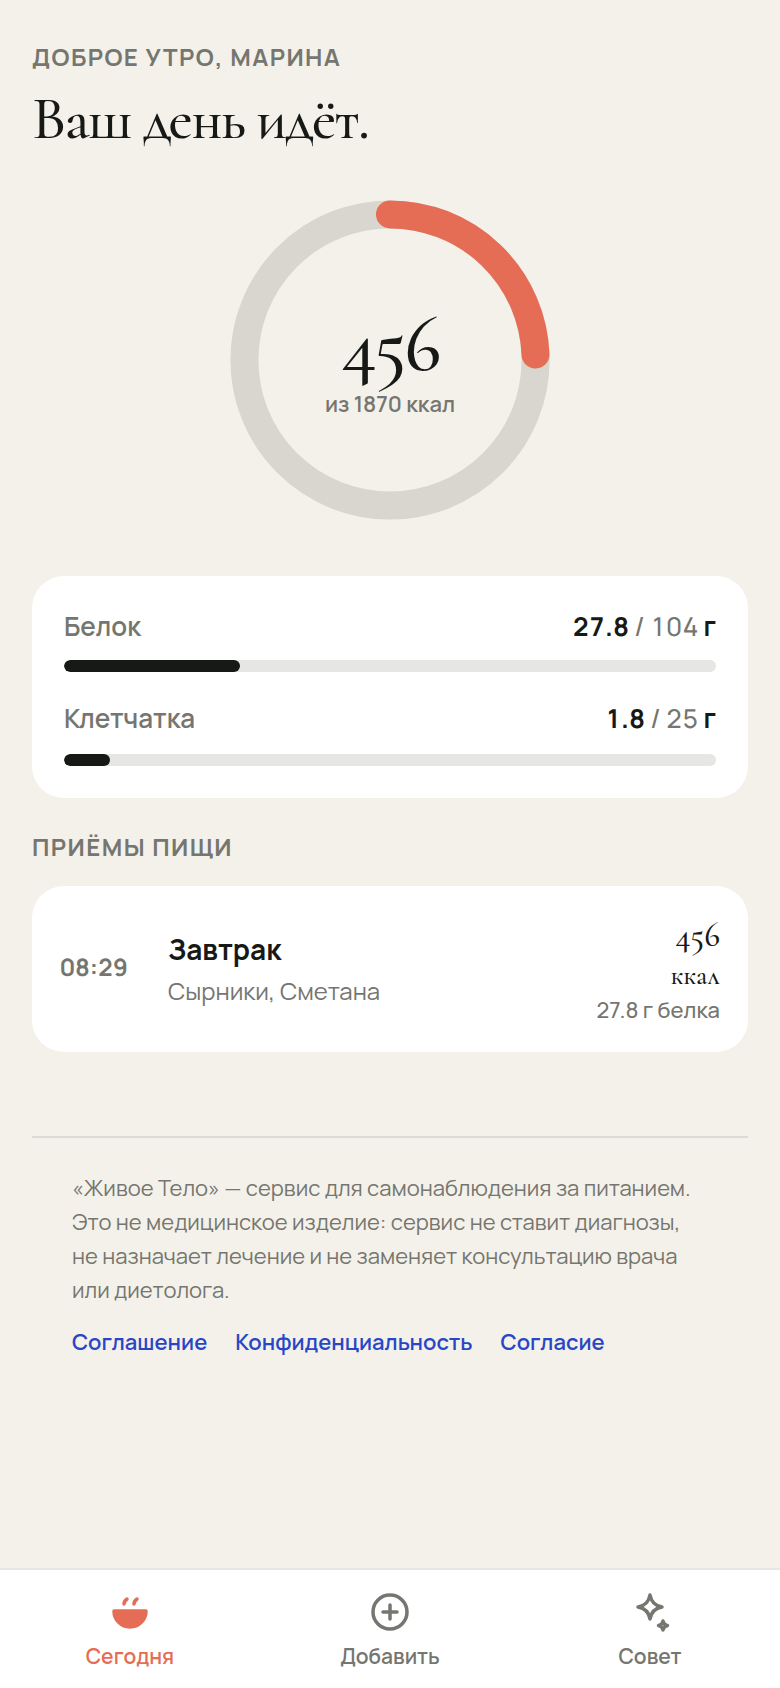
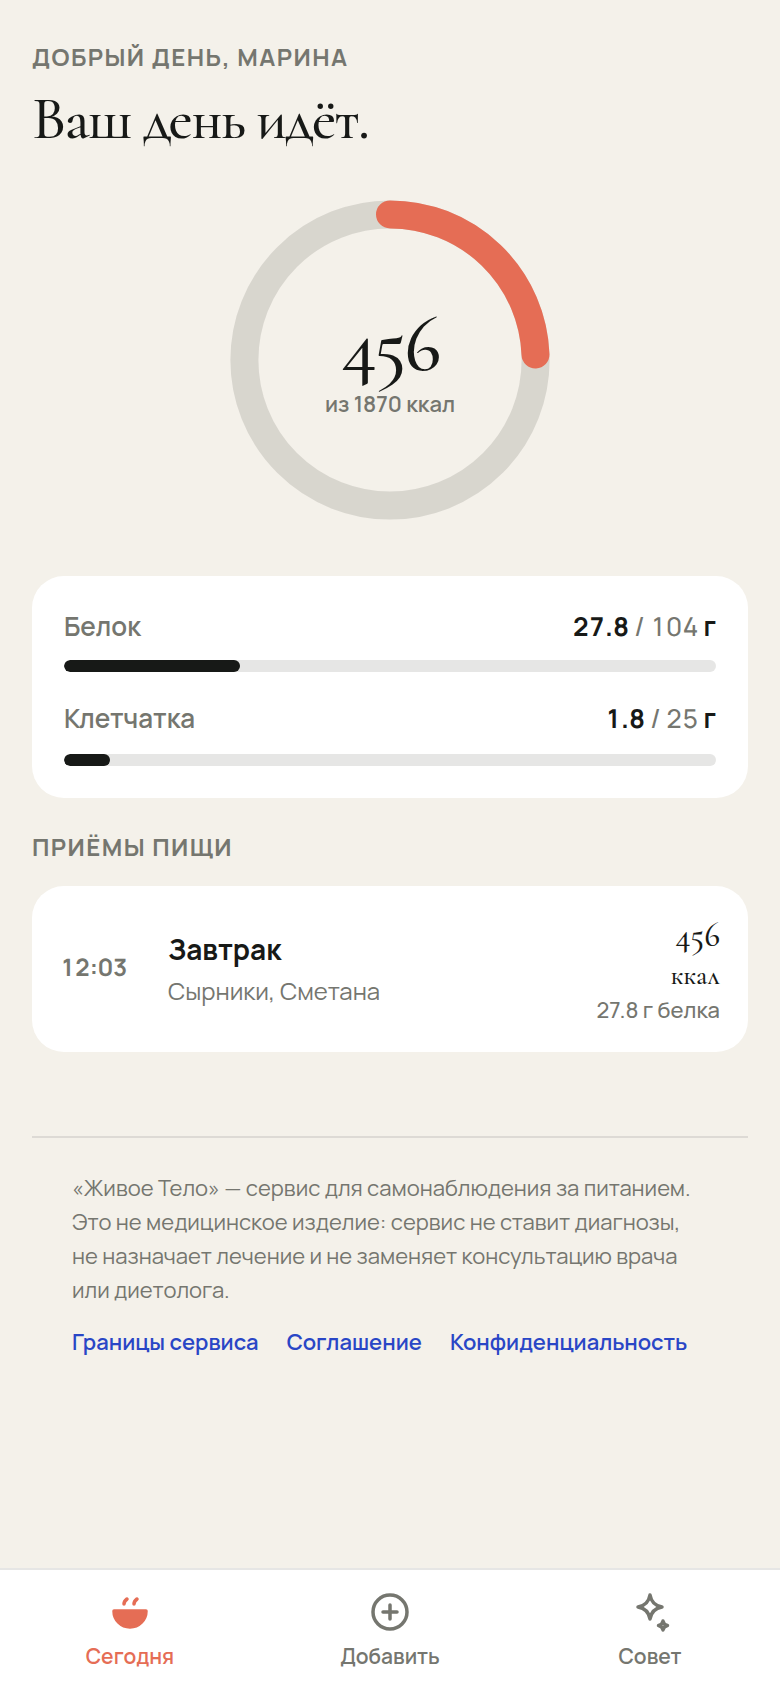
Show the plan updating as the onboarding questions are answered
Every onboarding that converts well shares one trait: the plan recalculates
in front of the person filling it in, so the numbers read as derived from
their answers rather than handed down. Ours only revealed the result after
submission.

A sticky panel beside the form now recomputes the energy range, protein and
fibre through the same computeTargets the app uses, and says plainly that it
is waiting for height and weight until it has enough to work with. Switching
the goal from maintenance to gentle loss moves the range immediately.

The form fields became controlled to make this possible, but the server
action's contract is untouched — same field names, same FormData, same
validation — and the original defaults (maintenance, light activity) are
preserved, so nothing changes for someone who simply fills the form and
presses the button.

93 unit tests, six e2e suites including the one that walks through
onboarding, clean lint, typecheck and build.

Claude-Session: https://claude.ai/code/session_01FfWCYDAfY1bLqGNy6tGekT

Changed region(s): [[0.0923, 0.7701, 0.8615, 0.8009], [0.1231, 0.0308, 0.4308, 0.0616], [0.0615, 0.5545, 0.1538, 0.5853]]

diff --git a/app/app/onboarding/page.tsx b/app/app/onboarding/page.tsx
@@ -1,7 +1,15 @@
 "use client";
 
-import { useActionState } from "react";
-import { ACTIVITY_LABELS, GOAL_LABELS } from "@/lib/targets";
+import { useActionState, useMemo, useState } from "react";
+import {
+  ACTIVITY_LABELS,
+  computeTargets,
+  GOAL_LABELS,
+  type Activity,
+  type Goal,
+  type SexForFormula,
+  type Targets,
+} from "@/lib/targets";
 import { saveProfile, type ProfileState } from "../profile-actions";
 
 const errors: Partial<Record<ProfileState["status"], string>> = {
@@ -12,6 +20,29 @@ const errors: Partial<Record<ProfileState["status"], string>> = {
 export default function OnboardingPage() {
   const [state, action, pending] = useActionState(saveProfile, { status: "idle" } as ProfileState);
   const currentYear = new Date().getFullYear();
+
+  // Управляемое состояние формы — нужно только для живого предпросмотра;
+  // server action по-прежнему читает те же поля из FormData по name.
+  const [goal, setGoal] = useState<Goal>("maintain");
+  const [sexForFormula, setSexForFormula] = useState<SexForFormula | "">("");
+  const [activity, setActivity] = useState<Activity>("light");
+  const [birthYear, setBirthYear] = useState("");
+  const [heightCm, setHeightCm] = useState("");
+  const [weightKg, setWeightKg] = useState("");
+
+  // Пересчитываем прямо во время рендера: computeTargets — чистая функция,
+  // отдельный useEffect тут не нужен.
+  const targets = useMemo<Targets | null>(() => {
+    if (!sexForFormula || !birthYear || !heightCm || !weightKg) return null;
+    const birthYearNum = Number(birthYear);
+    const heightNum = Number(heightCm);
+    const weightNum = Number(weightKg);
+    if (!Number.isFinite(birthYearNum) || !Number.isFinite(heightNum) || !Number.isFinite(weightNum)) return null;
+    return computeTargets(
+      { goal, sexForFormula, birthYear: birthYearNum, heightCm: heightNum, weightKg: weightNum, activity },
+      currentYear,
+    );
+  }, [goal, sexForFormula, birthYear, heightCm, weightKg, activity, currentYear]);
 
   return <main className="onboarding">
     <h1>Ваш стартовый план</h1>
@@ -24,13 +55,37 @@ export default function OnboardingPage() {
       см. <a href="/legal/privacy" target="_blank">политику конфиденциальности</a>.
     </p>
 
+    <aside className="onboarding-preview">
+      <p className="onboarding-preview-caption">Ваш план обновляется по мере ответов</p>
+      {targets
+        ? <>
+            <p className="onboarding-preview-range">
+              <strong>{targets.kcalMin}–{targets.kcalMax}</strong>
+              <small>ккал в день</small>
+            </p>
+            <p className="onboarding-preview-detail">
+              белок {targets.proteinTarget} г · клетчатка {targets.fiberTarget} г
+            </p>
+            {targets.adjusted &&
+              <p className="onboarding-preview-note">Мы подняли расчёт до безопасного минимума.</p>}
+          </>
+        : <p className="onboarding-preview-placeholder">Заполните рост и вес — и план появится здесь.</p>}
+    </aside>
+
     <form action={action} className="onboarding-form">
       <fieldset>
         <legend>Цель</legend>
         <div className="radio-row">
-          {Object.entries(GOAL_LABELS).map(([value, label], index) =>
+          {(Object.entries(GOAL_LABELS) as Array<[Goal, string]>).map(([value, label]) =>
             <label className="radio-card" key={value}>
-              <input type="radio" name="goal" value={value} defaultChecked={index === 1} required />
+              <input
+                type="radio"
+                name="goal"
+                value={value}
+                checked={goal === value}
+                onChange={() => setGoal(value)}
+                required
+              />
               <span>{label}</span>
             </label>)}
         </div>
@@ -40,23 +95,80 @@ export default function OnboardingPage() {
         <legend>Пол для формулы расчёта</legend>
         <p className="field-note">Нужен только для формулы Миффлина-Сан Жеора — базовые затраты энергии считаются по-разному.</p>
         <div className="radio-row">
-          <label className="radio-card"><input type="radio" name="sexForFormula" value="female" required /><span>Женский</span></label>
-          <label className="radio-card"><input type="radio" name="sexForFormula" value="male" /><span>Мужской</span></label>
+          <label className="radio-card">
+            <input
+              type="radio"
+              name="sexForFormula"
+              value="female"
+              checked={sexForFormula === "female"}
+              onChange={() => setSexForFormula("female")}
+              required
+            />
+            <span>Женский</span>
+          </label>
+          <label className="radio-card">
+            <input
+              type="radio"
+              name="sexForFormula"
+              value="male"
+              checked={sexForFormula === "male"}
+              onChange={() => setSexForFormula("male")}
+            />
+            <span>Мужской</span>
+          </label>
         </div>
       </fieldset>
 
       <div className="onboarding-numbers">
-        <label>Год рождения<input name="birthYear" type="number" min={currentYear - 100} max={currentYear - 14} required /></label>
-        <label>Рост, см<input name="heightCm" type="number" min={120} max={230} required /></label>
-        <label>Вес, кг<input name="weightKg" type="number" min={30} max={300} step="0.1" required /></label>
+        <label>Год рождения
+          <input
+            name="birthYear"
+            type="number"
+            min={currentYear - 100}
+            max={currentYear - 14}
+            value={birthYear}
+            onChange={(e) => setBirthYear(e.target.value)}
+            required
+          />
+        </label>
+        <label>Рост, см
+          <input
+            name="heightCm"
+            type="number"
+            min={120}
+            max={230}
+            value={heightCm}
+            onChange={(e) => setHeightCm(e.target.value)}
+            required
+          />
+        </label>
+        <label>Вес, кг
+          <input
+            name="weightKg"
+            type="number"
+            min={30}
+            max={300}
+            step="0.1"
+            value={weightKg}
+            onChange={(e) => setWeightKg(e.target.value)}
+            required
+          />
+        </label>
       </div>
 
       <fieldset>
         <legend>Активность</legend>
         <div className="radio-row">
-          {Object.entries(ACTIVITY_LABELS).map(([value, label], index) =>
+          {(Object.entries(ACTIVITY_LABELS) as Array<[Activity, string]>).map(([value, label]) =>
             <label className="radio-card" key={value}>
-              <input type="radio" name="activity" value={value} defaultChecked={index === 1} required />
+              <input
+                type="radio"
+                name="activity"
+                value={value}
+                checked={activity === value}
+                onChange={() => setActivity(value)}
+                required
+              />
               <span>{label}</span>
             </label>)}
         </div>

diff --git a/app/globals.css b/app/globals.css
@@ -195,3 +195,25 @@ label.consent input{width:15px;height:15px;margin:1px 0 0;padding:0;border:0;fle
 .footer-disclaimer a{text-decoration:underline;text-underline-offset:2px;white-space:nowrap}
 .footer-disclaimer a:hover,.auth-note a:hover{color:var(--coral)}
 .auth-note a{text-decoration:underline;text-underline-offset:2px}
+
+/* ===== Живой предпросмотр плана в онбординге =====
+   .onboarding — грид в две колонки: форма (авто-поток, колонка 1) и липкий
+   .onboarding-preview (колонка 2). У блока предпросмотра явно заданы
+   grid-column/grid-row, поэтому его порядок в разметке не важен для расчёта
+   сетки на широких экранах — остальные четыре элемента (заголовок, два
+   вводных абзаца и форма) сами заполняют колонку 1 построчно. */
+.onboarding{display:grid;grid-template-columns:minmax(0,1fr) 320px;gap:32px;align-items:start}
+.onboarding-preview{grid-column:2;grid-row:1/5;position:sticky;top:96px;background:var(--paper);border:1px solid var(--line);padding:24px}
+.onboarding-preview-caption{margin:0 0 16px;font-size:11px;font-weight:800;letter-spacing:.06em;text-transform:uppercase;color:var(--muted)}
+.onboarding-preview-placeholder{margin:0;color:var(--muted);font-size:13px;line-height:1.6}
+.onboarding-preview-range{display:flex;align-items:baseline;gap:10px;flex-wrap:wrap;margin:0}
+.onboarding-preview-range strong{font:500 40px var(--serif);letter-spacing:-.02em}
+/* Подпись «ккал в день» — иначе letter-spacing строки выше наследуется в
+   пикселях и буквы слипаются (см. комментарий у .energy small выше). */
+.onboarding-preview-range small{font-size:12px;font-weight:700;color:var(--muted);letter-spacing:normal}
+.onboarding-preview-detail{margin:12px 0 0;color:var(--muted);font-size:12px}
+.onboarding-preview-note{margin:10px 0 0;color:var(--muted);font-size:12px;line-height:1.5}
+@media(max-width:900px){
+  .onboarding{grid-template-columns:1fr}
+  .onboarding-preview{grid-column:1;grid-row:auto;position:static;top:auto}
+}

diff --git a/docs/handover.md b/docs/handover.md
@@ -36,6 +36,18 @@
   `/bulk-or-cut/` (квиз — интересный формат) и одну статью для образца
   структуры.
 
+## Добавлено во второй волне
+
+- `/raschet` — хаб раздела, `/raschet/belok` — калькулятор белка. Расчёт
+  вынесен в `lib/protein.ts` с тестом на совпадение с `computeTargets`.
+- `/legal/health` — медицинский дисклеймер отдельной страницей (у
+  MacroFactor это тоже отдельный документ, а не пункт соглашения). Ссылка
+  стоит в футере лендинга, в приложении, в Mini App и на регистрации.
+- Живой предпросмотр плана в онбординге: диапазон пересчитывается по мере
+  ответов. Приём из разбора онбордингов лидеров — человек видит, что цифры
+  выведены из его ответов, а не выданы наугад. Контракт server action и
+  значения по умолчанию не менялись.
+
 ## Следующие шаги по приоритету
 
 1. **M1 — деплой на VPS.** Блокирует всё остальное; готово всё, кроме
